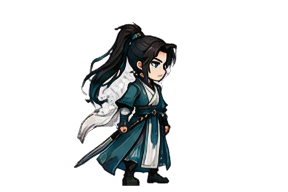
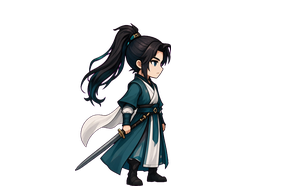
调试：god() 真无敌开关、atk(倍率)；修复死亡判定（以 HP 为准，过期死亡标记自动复活）；首领追赶系数（低攻击力对首领伤害最多×5）；第5关操作提示延后并移到下方；落雷1秒醒目预警；美术 fix3 重绘 jump_05/whirlwind_01/whirlwind_08 重建图集

Changed region(s): [[0.25, 0.0938, 0.625, 0.9688]]

diff --git a/assets/hero_atlas.js b/assets/hero_atlas.js
@@ -1,1 +1,1 @@
-window.HERO_ATLAS={"image":"assets/hero_atlas.png","source":"ref/hero_frames_v2.png + ref/hero_sheet.png","frames":{"idle_0":{"x":947,"y":0,"w":107,"h":164,"ax":55,"ay":163,"s":0.625},"idle_1":{"x":1056,"y":0,"w":107,"h":164,"ax":56,"ay":163,"s":0.625},"idle_2":{"x":1165,"y":0,"w":106,"h":164,"ax":56,"ay":163,"s":0.625},"idle_3":{"x":1735,"y":0,"w":106,"h":163,"ax":58,"ay":162,"s":0.625},"idle_4":{"x":1273,"y":0,"w":108,"h":164,"ax":56,"ay":163,"s":0.625},"idle_5":{"x":1843,"y":0,"w":106,"h":163,"ax":55,"ay":162,"s":0.625},"walk_0":{"x":718,"y":341,"w":108,"h":159,"ax":51,"ay":158,"s":0.625},"walk_1":{"x":828,"y":341,"w":107,"h":159,"ax":56,"ay":158,"s":0.625},"walk_2":{"x":937,"y":341,"w":98,"h":159,"ax":44,"ay":158,"s":0.625},"walk_3":{"x":1037,"y":341,"w":111,"h":159,"ax":59,"ay":158,"s":0.625},"walk_4":{"x":167,"y":504,"w":114,"h":158,"ax":53,"ay":157,"s":0.625},"walk_5":{"x":871,"y":176,"w":108,"h":161,"ax":70,"ay":160,"s":0.625},"walk_6":{"x":1150,"y":341,"w":115,"h":159,"ax":26,"ay":157,"s":0.625},"walk_7":{"x":1267,"y":341,"w":111,"h":159,"ax":74,"ay":158,"s":0.625},"attack1_0":{"x":981,"y":176,"w":116,"h":161,"ax":56,"ay":160,"s":0.625},"attack1_1":{"x":0,"y":176,"w":114,"h":163,"ax":66,"ay":162,"s":0.625},"attack1_2":{"x":1099,"y":176,"w":144,"h":161,"ax":66,"ay":160,"s":0.625},"attack1_3":{"x":1380,"y":341,"w":137,"h":159,"ax":64,"ay":158,"s":0.625},"attack1_4":{"x":1245,"y":176,"w":150,"h":161,"ax":68,"ay":160,"s":0.625},"attack1_5":{"x":1397,"y":176,"w":133,"h":161,"ax":73,"ay":160,"s":0.625},"attack2_0":{"x":1383,"y":0,"w":132,"h":164,"ax":80,"ay":163,"s":0.625},"attack2_1":{"x":278,"y":341,"w":140,"h":160,"ax":34,"ay":159,"s":0.625},"attack2_2":{"x":1519,"y":341,"w":134,"h":159,"ax":77,"ay":158,"s":0.625},"attack2_3":{"x":240,"y":0,"w":141,"h":173,"ax":56,"ay":172,"s":0.625},"attack2_4":{"x":283,"y":504,"w":143,"h":158,"ax":63,"ay":157,"s":0.625},"attack2_5":{"x":428,"y":504,"w":154,"h":158,"ax":61,"ay":157,"s":0.625},"attack3_0":{"x":423,"y":176,"w":141,"h":162,"ax":78,"ay":161,"s":0.625},"attack3_1":{"x":1386,"y":504,"w":151,"h":148,"ax":50,"ay":147,"s":0.625},"attack3_2":{"x":1655,"y":341,"w":138,"h":159,"ax":87,"ay":158,"s":0.625},"attack3_3":{"x":566,"y":176,"w":140,"h":162,"ax":68,"ay":161,"s":0.625},"attack3_4":{"x":1230,"y":504,"w":154,"h":150,"ax":49,"ay":149,"s":0.625},"attack3_5":{"x":708,"y":176,"w":161,"h":162,"ax":97,"ay":161,"s":0.625},"attack4_0":{"x":1532,"y":176,"w":114,"h":161,"ax":66,"ay":160,"s":0.625},"attack4_1":{"x":1648,"y":176,"w":148,"h":161,"ax":53,"ay":160,"s":0.625},"attack4_2":{"x":1798,"y":176,"w":142,"h":161,"ax":52,"ay":160,"s":0.625},"attack4_3":{"x":0,"y":341,"w":124,"h":161,"ax":65,"ay":160,"s":0.625},"attack4_4":{"x":516,"y":0,"w":136,"h":165,"ax":60,"ay":164,"s":0.625},"attack4_5":{"x":1795,"y":341,"w":148,"h":159,"ax":67,"ay":158,"s":0.625},"hit_0":{"x":584,"y":504,"w":141,"h":158,"ax":76,"ay":157,"s":0.625},"hit_1":{"x":883,"y":504,"w":143,"h":156,"ax":60,"ay":155,"s":0.625},"hit_2":{"x":1695,"y":504,"w":158,"h":139,"ax":74,"ay":138,"s":0.625},"portrait":{"x":397,"y":665,"w":128,"h":128,"ax":64,"ay":64,"s":0.78},"turn_0":{"x":827,"y":665,"w":99,"h":95,"ax":44,"ay":93},"turn_1":{"x":730,"y":665,"w":95,"h":97,"ax":48,"ay":95},"turn_2":{"x":928,"y":665,"w":73,"h":95,"ax":34,"ay":93},"hslash_0":{"x":1631,"y":665,"w":64,"h":78,"ax":34,"ay":76},"hslash_1":{"x":1849,"y":665,"w":55,"h":76,"ax":29,"ay":74},"hslash_2":{"x":1989,"y":665,"w":54,"h":75,"ax":26,"ay":73},"upslash_0":{"x":1697,"y":665,"w":64,"h":77,"ax":37,"ay":75},"upslash_1":{"x":1333,"y":665,"w":55,"h":87,"ax":25,"ay":85},"downslash_0":{"x":1763,"y":665,"w":84,"h":77,"ax":42,"ay":75},"wavecast_0":{"x":1906,"y":665,"w":81,"h":76,"ax":45,"ay":74},"dodge_0":{"x":0,"y":799,"w":72,"h":66,"ax":42,"ay":64},"dodge_1":{"x":74,"y":799,"w":82,"h":66,"ax":53,"ay":64},"block_0":{"x":1548,"y":665,"w":81,"h":79,"ax":26,"ay":77},"block_1":{"x":1484,"y":665,"w":62,"h":81,"ax":28,"ay":79},"charge_0":{"x":1390,"y":665,"w":92,"h":86,"ax":47,"ay":84},"ult_0":{"x":1003,"y":665,"w":92,"h":92,"ax":52,"ay":90},"down_0":{"x":1244,"y":665,"w":87,"h":89,"ax":56,"ay":87},"down_1":{"x":158,"y":799,"w":129,"h":53,"ax":63,"ay":51},"fx_sword":{"x":692,"y":665,"w":36,"h":115,"ax":18,"ay":115},"fx_wave":{"x":1097,"y":665,"w":145,"h":90,"ax":72,"ay":45},"jump_0":{"x":1855,"y":504,"w":139,"h":137,"ax":91,"ay":136,"s":0.625},"jump_1":{"x":383,"y":0,"w":131,"h":171,"ax":70,"ay":170,"s":0.625},"jump_2":{"x":0,"y":0,"w":127,"h":174,"ax":76,"ay":173,"s":0.625},"jump_3":{"x":527,"y":665,"w":163,"h":128,"ax":113,"ay":127,"s":0.625},"jump_4":{"x":654,"y":0,"w":150,"h":165,"ax":69,"ay":164,"s":0.625},"jump_5":{"x":0,"y":665,"w":165,"h":132,"ax":122,"ay":131,"s":0.625},"thrust_0":{"x":1517,"y":0,"w":111,"h":164,"ax":50,"ay":163,"s":0.625},"thrust_1":{"x":727,"y":504,"w":154,"h":157,"ax":113,"ay":156,"s":0.625},"thrust_2":{"x":1028,"y":504,"w":200,"h":151,"ax":82,"ay":150,"s":0.625},"thrust_3":{"x":167,"y":665,"w":228,"h":130,"ax":91,"ay":129,"s":0.625},"thrust_4":{"x":1539,"y":504,"w":154,"h":148,"ax":114,"ay":147,"s":0.625},"thrust_5":{"x":129,"y":0,"w":109,"h":174,"ax":58,"ay":173,"s":0.625},"spin_0":{"x":1630,"y":0,"w":103,"h":164,"ax":54,"ay":163,"s":0.625},"spin_1":{"x":116,"y":176,"w":160,"h":163,"ax":72,"ay":162,"s":0.625},"spin_2":{"x":806,"y":0,"w":139,"h":165,"ax":93,"ay":164,"s":0.625},"spin_3":{"x":278,"y":176,"w":143,"h":163,"ax":49,"ay":162,"s":0.625},"spin_4":{"x":126,"y":341,"w":150,"h":161,"ax":98,"ay":160,"s":0.625},"spin_5":{"x":0,"y":504,"w":165,"h":159,"ax":67,"ay":158,"s":0.625},"spin_6":{"x":420,"y":341,"w":177,"h":160,"ax":72,"ay":159,"s":0.625},"spin_7":{"x":599,"y":341,"w":117,"h":160,"ax":66,"ay":159,"s":0.625}},"anims":{"turn":["turn_0","turn_1","turn_2"],"hslash":["hslash_0","hslash_1","hslash_2"],"upslash":["upslash_0","upslash_1"],"downslash":["downslash_0"],"wavecast":["wavecast_0"],"dodge":["dodge_0","dodge_1"],"block":["block_0","block_1"],"charge":["charge_0"],"ult":["ult_0"],"down":["down_0","down_1"],"jump":["jump_0","jump_1","jump_2","jump_3","jump_4","jump_5"],"thrust":["thrust_0","thrust_1","thrust_2","thrust_3","thrust_4","thrust_5"],"spin":["spin_0","spin_1","spin_2","spin_3","spin_4","spin_5","spin_6","spin_7"],"idle":["idle_0","idle_1","idle_2","idle_3","idle_4","idle_5"],"walk":["walk_0","walk_1","walk_2","walk_3","walk_4","walk_5","walk_6","walk_7"],"run":["walk_0","walk_1","walk_2","walk_3","walk_4","walk_5","walk_6","walk_7"],"atk1":["attack1_0","attack1_1","attack1_2","attack1_3","attack1_4","attack1_5"],"atk2":["attack2_0","attack2_1","attack2_2","attack2_3","attack2_4","attack2_5"],"atk3":["attack3_0","attack3_1","attack3_2","attack3_3","attack3_4","attack3_5"],"atk4":["attack4_0","attack4_1","attack4_2","attack4_3","attack4_4","attack4_5"],"hurt":["hit_0","hit_1","hit_2"]}};
+window.HERO_ATLAS={"image":"assets/hero_atlas.png","source":"ref/hero_frames_v2.png + ref/hero_sheet.png","frames":{"idle_0":{"x":929,"y":0,"w":107,"h":164,"ax":55,"ay":163,"s":0.625},"idle_1":{"x":1038,"y":0,"w":107,"h":164,"ax":56,"ay":163,"s":0.625},"idle_2":{"x":1147,"y":0,"w":106,"h":164,"ax":56,"ay":163,"s":0.625},"idle_3":{"x":1612,"y":0,"w":106,"h":163,"ax":58,"ay":162,"s":0.625},"idle_4":{"x":1255,"y":0,"w":108,"h":164,"ax":56,"ay":163,"s":0.625},"idle_5":{"x":1720,"y":0,"w":106,"h":163,"ax":55,"ay":162,"s":0.625},"walk_0":{"x":473,"y":347,"w":108,"h":159,"ax":51,"ay":158,"s":0.625},"walk_1":{"x":583,"y":347,"w":107,"h":159,"ax":56,"ay":158,"s":0.625},"walk_2":{"x":692,"y":347,"w":98,"h":159,"ax":44,"ay":158,"s":0.625},"walk_3":{"x":792,"y":347,"w":111,"h":159,"ax":59,"ay":158,"s":0.625},"walk_4":{"x":0,"y":510,"w":114,"h":158,"ax":53,"ay":157,"s":0.625},"walk_5":{"x":755,"y":182,"w":108,"h":161,"ax":70,"ay":160,"s":0.625},"walk_6":{"x":905,"y":347,"w":115,"h":159,"ax":26,"ay":157,"s":0.625},"walk_7":{"x":1022,"y":347,"w":111,"h":159,"ax":74,"ay":158,"s":0.625},"attack1_0":{"x":865,"y":182,"w":116,"h":161,"ax":56,"ay":160,"s":0.625},"attack1_1":{"x":1828,"y":0,"w":114,"h":163,"ax":66,"ay":162,"s":0.625},"attack1_2":{"x":983,"y":182,"w":144,"h":161,"ax":66,"ay":160,"s":0.625},"attack1_3":{"x":1135,"y":347,"w":137,"h":159,"ax":64,"ay":158,"s":0.625},"attack1_4":{"x":1129,"y":182,"w":150,"h":161,"ax":68,"ay":160,"s":0.625},"attack1_5":{"x":1281,"y":182,"w":133,"h":161,"ax":73,"ay":160,"s":0.625},"attack2_0":{"x":1365,"y":0,"w":132,"h":164,"ax":80,"ay":163,"s":0.625},"attack2_1":{"x":152,"y":347,"w":140,"h":160,"ax":34,"ay":159,"s":0.625},"attack2_2":{"x":1274,"y":347,"w":134,"h":159,"ax":77,"ay":158,"s":0.625},"attack2_3":{"x":374,"y":0,"w":141,"h":173,"ax":56,"ay":172,"s":0.625},"attack2_4":{"x":116,"y":510,"w":143,"h":158,"ax":63,"ay":157,"s":0.625},"attack2_5":{"x":261,"y":510,"w":154,"h":158,"ax":61,"ay":157,"s":0.625},"attack3_0":{"x":307,"y":182,"w":141,"h":162,"ax":78,"ay":161,"s":0.625},"attack3_1":{"x":1219,"y":510,"w":151,"h":148,"ax":50,"ay":147,"s":0.625},"attack3_2":{"x":1410,"y":347,"w":138,"h":159,"ax":87,"ay":158,"s":0.625},"attack3_3":{"x":450,"y":182,"w":140,"h":162,"ax":68,"ay":161,"s":0.625},"attack3_4":{"x":1063,"y":510,"w":154,"h":150,"ax":49,"ay":149,"s":0.625},"attack3_5":{"x":592,"y":182,"w":161,"h":162,"ax":97,"ay":161,"s":0.625},"attack4_0":{"x":1416,"y":182,"w":114,"h":161,"ax":66,"ay":160,"s":0.625},"attack4_1":{"x":1532,"y":182,"w":148,"h":161,"ax":53,"ay":160,"s":0.625},"attack4_2":{"x":1682,"y":182,"w":142,"h":161,"ax":52,"ay":160,"s":0.625},"attack4_3":{"x":1826,"y":182,"w":124,"h":161,"ax":65,"ay":160,"s":0.625},"attack4_4":{"x":650,"y":0,"w":136,"h":165,"ax":60,"ay":164,"s":0.625},"attack4_5":{"x":1550,"y":347,"w":148,"h":159,"ax":67,"ay":158,"s":0.625},"hit_0":{"x":417,"y":510,"w":141,"h":158,"ax":76,"ay":157,"s":0.625},"hit_1":{"x":716,"y":510,"w":143,"h":156,"ax":60,"ay":155,"s":0.625},"hit_2":{"x":1528,"y":510,"w":158,"h":139,"ax":74,"ay":138,"s":0.625},"portrait":{"x":230,"y":670,"w":128,"h":128,"ax":64,"ay":64,"s":0.78},"turn_0":{"x":660,"y":670,"w":99,"h":95,"ax":44,"ay":93},"turn_1":{"x":563,"y":670,"w":95,"h":97,"ax":48,"ay":95},"turn_2":{"x":761,"y":670,"w":73,"h":95,"ax":34,"ay":93},"hslash_0":{"x":1464,"y":670,"w":64,"h":78,"ax":34,"ay":76},"hslash_1":{"x":1682,"y":670,"w":55,"h":76,"ax":29,"ay":74},"hslash_2":{"x":1822,"y":670,"w":54,"h":75,"ax":26,"ay":73},"upslash_0":{"x":1530,"y":670,"w":64,"h":77,"ax":37,"ay":75},"upslash_1":{"x":1166,"y":670,"w":55,"h":87,"ax":25,"ay":85},"downslash_0":{"x":1596,"y":670,"w":84,"h":77,"ax":42,"ay":75},"wavecast_0":{"x":1739,"y":670,"w":81,"h":76,"ax":45,"ay":74},"dodge_0":{"x":1878,"y":670,"w":72,"h":66,"ax":42,"ay":64},"dodge_1":{"x":1952,"y":670,"w":82,"h":66,"ax":53,"ay":64},"block_0":{"x":1381,"y":670,"w":81,"h":79,"ax":26,"ay":77},"block_1":{"x":1317,"y":670,"w":62,"h":81,"ax":28,"ay":79},"charge_0":{"x":1223,"y":670,"w":92,"h":86,"ax":47,"ay":84},"ult_0":{"x":836,"y":670,"w":92,"h":92,"ax":52,"ay":90},"down_0":{"x":1077,"y":670,"w":87,"h":89,"ax":56,"ay":87},"down_1":{"x":0,"y":802,"w":129,"h":53,"ax":63,"ay":51},"fx_sword":{"x":525,"y":670,"w":36,"h":115,"ax":18,"ay":115},"fx_wave":{"x":930,"y":670,"w":145,"h":90,"ax":72,"ay":45},"jump_0":{"x":1688,"y":510,"w":139,"h":137,"ax":91,"ay":136,"s":0.625},"jump_1":{"x":517,"y":0,"w":131,"h":171,"ax":70,"ay":170,"s":0.625},"jump_2":{"x":134,"y":0,"w":127,"h":174,"ax":76,"ay":173,"s":0.625},"jump_3":{"x":360,"y":670,"w":163,"h":128,"ax":113,"ay":127,"s":0.625},"jump_4":{"x":0,"y":0,"w":132,"h":180,"ax":94,"ay":179,"s":0.625},"jump_5":{"x":1829,"y":510,"w":165,"h":132,"ax":122,"ay":131,"s":0.625},"thrust_0":{"x":1499,"y":0,"w":111,"h":164,"ax":50,"ay":163,"s":0.625},"thrust_1":{"x":560,"y":510,"w":154,"h":157,"ax":113,"ay":156,"s":0.625},"thrust_2":{"x":861,"y":510,"w":200,"h":151,"ax":82,"ay":150,"s":0.625},"thrust_3":{"x":0,"y":670,"w":228,"h":130,"ax":91,"ay":129,"s":0.625},"thrust_4":{"x":1372,"y":510,"w":154,"h":148,"ax":114,"ay":147,"s":0.625},"thrust_5":{"x":263,"y":0,"w":109,"h":174,"ax":58,"ay":173,"s":0.625},"spin_0":{"x":1944,"y":0,"w":96,"h":163,"ax":53,"ay":162,"s":0.625},"spin_1":{"x":0,"y":182,"w":160,"h":163,"ax":72,"ay":162,"s":0.625},"spin_2":{"x":788,"y":0,"w":139,"h":165,"ax":93,"ay":164,"s":0.625},"spin_3":{"x":162,"y":182,"w":143,"h":163,"ax":49,"ay":162,"s":0.625},"spin_4":{"x":0,"y":347,"w":150,"h":161,"ax":98,"ay":160,"s":0.625},"spin_5":{"x":1700,"y":347,"w":165,"h":159,"ax":67,"ay":158,"s":0.625},"spin_6":{"x":294,"y":347,"w":177,"h":160,"ax":72,"ay":159,"s":0.625},"spin_7":{"x":1867,"y":347,"w":89,"h":159,"ax":58,"ay":158,"s":0.625}},"anims":{"turn":["turn_0","turn_1","turn_2"],"hslash":["hslash_0","hslash_1","hslash_2"],"upslash":["upslash_0","upslash_1"],"downslash":["downslash_0"],"wavecast":["wavecast_0"],"dodge":["dodge_0","dodge_1"],"block":["block_0","block_1"],"charge":["charge_0"],"ult":["ult_0"],"down":["down_0","down_1"],"jump":["jump_0","jump_1","jump_2","jump_3","jump_4","jump_5"],"thrust":["thrust_0","thrust_1","thrust_2","thrust_3","thrust_4","thrust_5"],"spin":["spin_0","spin_1","spin_2","spin_3","spin_4","spin_5","spin_6","spin_7"],"idle":["idle_0","idle_1","idle_2","idle_3","idle_4","idle_5"],"walk":["walk_0","walk_1","walk_2","walk_3","walk_4","walk_5","walk_6","walk_7"],"run":["walk_0","walk_1","walk_2","walk_3","walk_4","walk_5","walk_6","walk_7"],"atk1":["attack1_0","attack1_1","attack1_2","attack1_3","attack1_4","attack1_5"],"atk2":["attack2_0","attack2_1","attack2_2","attack2_3","attack2_4","attack2_5"],"atk3":["attack3_0","attack3_1","attack3_2","attack3_3","attack3_4","attack3_5"],"atk4":["attack4_0","attack4_1","attack4_2","attack4_3","attack4_4","attack4_5"],"hurt":["hit_0","hit_1","hit_2"]}};

diff --git a/game.js b/game.js
@@ -151,6 +151,9 @@ function attackers(){let n=0;for(const o of G.enemies)if(o.tok&&!o.dead)n++;retu
 function tryTok(e){if(e.tok)return true;if(e.tokCd>0)return false;if(attackers()<maxAttackers()){e.tok=1;e.tokT=0;return true}return false}
 function dropTok(e,cd){if(e.tok){e.tok=0;e.tokCd=cd==null?rnd(.5,1.1):cd}}
 function resistOf(e,elem){const r=(e.def.resist)||(G.S.resist)||{};return elem&&r[elem]!=null?r[elem]:1}
+// 首领追赶系数：攻击力低于该关预期水平时（如跳关/新存档），对首领伤害按差距放大（最多 ×5），正常成长的英雄不受影响
+const BOSS_EXP_ATK=[10,26,42,62,80];
+function bossCatchUp(){const a=atk(),ea=BOSS_EXP_ATK[G.idx]||10;return a>=ea?1:Math.min(5,Math.pow(ea/a,.85))}
 function damage(e,d,kb,fromX,elem,opts={}){if(e.dead||e.inv>0||e.hidden)return 0;
  let m=resistOf(e,elem);
  const front=Math.sign(fromX-e.x)===Math.sign(e.face)&&!elem;
@@ -159,6 +162,7 @@ function damage(e,d,kb,fromX,elem,opts={}){if(e.dead||e.inv>0||e.hidden)return 0
   else if(e.def.block&&Math.random()<e.def.block){m*=.2;numText(e,'格挡','#ccc');sfx('block')}}
  if(e.def.ai==='golem')m*=e.cool>0?1.6:.4;
  if(opts.ult&&(e.def.shape==='bat'||e.def.shape==='vamp'))m*=1.5;
+ if(e.boss)m*=bossCatchUp();m*=DBG_ATK;
  const dd=d*m;e.hp-=dd;e.hurtT=e.boss?.08:.25;e.kx=(e.x<fromX?-1:1)*kb*(e.boss?.15:1);
  particles(e.x,e.y,40*e.r+e.z,elem==='fire'?'#ff8a30':elem==='ice'?'#bff0ff':elem==='thunder'?'#d0b0ff':'#ffe080',8);numPop(e.x,e.y,70*e.r+e.z,dd,m>1.2?'#ffd34a':m<.5?'#999':'#fff');
  G.p.energy=Math.min(100,G.p.energy+3);sfx('hit');
@@ -174,7 +178,8 @@ function kill(e){e.dead=1;e.deadT=0;sfx('death');const p=G.p;p.exp+=e.exp;G.expG
   p.exp+=d.exp;G.expGain=(G.expGain||0)+d.exp;msg(d.msg,'#ffb040')}
  if(e.boss&&!e.mini){G.clearT=2.5;G.ep=[];G.hz=G.hz.filter(h=>h.stage);G.enemies.forEach(o=>{if(!o.dead&&o!==e){o.hp=0;kill(o)}})}
  if(e.boss&&e.mini)G.mini=null}
-function hurtPlayer(d,src){const p=G.p;if(p.inv>0||p.dead||G.clearT>0)return 0;d=Math.max(1,Math.round(d-def()));p.hp-=d;p.hurtT=.3;p.inv=.7;G.hurtFlash=Math.min(.45,.22+d/p.maxhp*2);p.energy=Math.min(100,p.energy+8);G.shake=6;
+let DBG_GOD=false,DBG_ATK=1;// 调试：无敌 / 伤害倍率（整页有效，跨关卡保留）
+function hurtPlayer(d,src){const p=G.p;if(DBG_GOD||p.inv>0||p.dead||G.clearT>0)return 0;if(!(d>0))return 0;d=Math.max(1,Math.round(d-def()));p.hp-=d;p.hurtT=.3;p.inv=.7;G.hurtFlash=Math.min(.45,.22+d/p.maxhp*2);p.energy=Math.min(100,p.energy+8);G.shake=6;
  numPop(p.x,p.y,80,d,'#ff5555');sfx('hurt');if(src&&src.x!=null)p.x+=Math.sign(p.x-src.x||1)*20;
  if(p.hp<=0){p.hp=0;p.dead=1;p.deadT=0;sfx('over')}return d}
 // ---------- 玩家 ----------
@@ -192,7 +197,8 @@ function special(){const p=G.p;p.energy=0;p.specialT=1.6;p.inv=1.8;G.flash=.4;G.
  for(const e of tg)for(let k=0;k<(lv5?3:2);k++)G.swords.push({x:e.x+rnd(-20,20),y:e.y+1,t:-.25-(i++)*.06,e,dmg:(34+atk()*1.6)*(lv5?1.5:1),gold:lv5});
  for(let k=0;k<14;k++)G.swords.push({x:G.camX+rnd(30,W-30),y:rnd(LANE_TOP,LANE_BOT),t:-.2-k*.07,deco:1,gold:lv5})}
 function updatePlayer(dt){const p=G.p;
- if(p.dead){p.deadT+=dt;if(p.deadT>1.6&&MODE==='play'){MODE='over';OVER_T=0;sfx('fail')}return}
+ if(p.dead&&(p.hp>0||DBG_GOD)){p.dead=0;p.deadT=0;if(p.hp<=0)p.hp=p.maxhp}
+ if(p.dead){p.deadT+=dt;if(p.deadT>1.6&&MODE==='play'&&p.hp<=0){MODE='over';OVER_T=0;sfx('fail')}return}
  for(const k of['inv','hurtT','comboWin','dashCd','bufJ','hzT'])p[k]=Math.max(0,p[k]-dt);
  if(G.menu)return;
  const bnd=laneAt(p.x);let sp=200;if(segAt(p.x,'river')&&p.z<5)sp*=G.S.river.slow;
@@ -722,7 +728,13 @@ function drawHazard(h){const sx=h.x-G.camX;if(sx<-300||sx>W+300)return;const st=
   if(['meteor','icicle','arrows','skybolt'].includes(h.k)){const fall=(1-pr)*420;ell(sx,h.y,h.rx*.5*pr,h.ry*.5*pr,'rgba(0,0,0,.4)');
    if(h.k==='meteor')fx('fireball',sx+fall*.3,h.y-fall-20,.8,.9,1,.6);else if(h.k==='icicle')fx('ice_lance',sx,h.y-fall-20,.4,.9,1,Math.PI/2);else if(h.k==='arrows'){ctx.strokeStyle='#ddd';ctx.lineWidth=2;for(let i=0;i<4;i++){const ax=sx+(i-1.5)*14,ay=h.y-fall-i*10;ctx.beginPath();ctx.moveTo(ax,ay);ctx.lineTo(ax+4,ay-22);ctx.stroke()}}}
   if(h.k==='snowball'){const ox=h.ox-G.camX;const bx=ox+(sx-ox)*pr,by=h.oy+(h.y-h.oy)*pr-h.oz*(1-pr)-Math.sin(pr*Math.PI)*(160+60*h.sc);ell(sx,h.y,h.rx*.6*pr,h.ry*.6*pr,'rgba(10,20,50,.45)');if(h.giant)drawSprite(SNOWBOSS_ATLAS,'snowboss','snowball',bx,by,26*h.sc,G.t*3);else drawSnowball(bx,by,(h.ice?13:9)*h.sc,G.t*(h.ice?4:8),h.ice)}
-  if(h.k==='burst')txt('!',sx,h.y-140,40,'#ff3040','center');return}
+  if(h.k==='burst')txt('!',sx,h.y-140,40,'#ff3040','center');
+  if(h.k==='skybolt'){const left=h.warn-h.t;if(left<1.0){const k=1-left/1.0,pl=.5+.5*Math.sin(G.t*30);ctx.save();ctx.globalCompositeOperation='lighter';
+   ctx.fillStyle=`rgba(190,160,255,${.25+.35*k*pl})`;ctx.beginPath();ctx.ellipse(sx,h.y,h.rx*(1.15-.25*k),h.ry*(1.15-.25*k),0,0,7);ctx.fill();
+   ctx.strokeStyle=`rgba(235,220,255,${.6+.4*pl})`;ctx.lineWidth=3;ctx.beginPath();ctx.ellipse(sx,h.y,h.rx,h.ry,0,0,7);ctx.stroke();ctx.beginPath();ctx.moveTo(sx-h.rx*.6,h.y);ctx.lineTo(sx+h.rx*.6,h.y);ctx.moveTo(sx,h.y-h.ry*.7);ctx.lineTo(sx,h.y+h.ry*.7);ctx.stroke();
+   const g=ctx.createLinearGradient(0,0,0,h.y);g.addColorStop(0,'rgba(200,180,255,0)');g.addColorStop(1,`rgba(200,180,255,${.12+.3*k})`);ctx.fillStyle=g;ctx.fillRect(sx-6-8*k,0,12+16*k,h.y);ctx.restore();
+   txt('⚡',sx,h.y-34-6*pl,22+6*k,'#fff3a0','center','#3a1a6a')}}
+  return}
  if(st===2||(st===3&&h.sb&&h.k==='spike')){const k=h.k;ctx.save();
   if(k==='crack'||k==='puddle'){ctx.globalCompositeOperation='lighter';ctx.fillStyle=`rgba(255,${100+60*Math.random()|0},20,.55)`;ctx.beginPath();ctx.ellipse(sx,h.y,h.rx,h.ry,0,0,7);ctx.fill();fx('firewall',sx,h.y+4,h.rx/90,.6,1,0,'b')}
   else if(k==='geyser'){fx('firewall',sx,h.y+6,.8,.95,1,0,'b');fx('explosion',sx,h.y-60,.7,.6)}
@@ -819,7 +831,8 @@ function drawHUD(){const p=G.p;
  G.msgs.forEach((m,i)=>{ctx.globalAlpha=Math.min(1,m.life*2,m.a==null?1:m.a);txt(m.t,W/2,122+i*26,18,m.c,'center');ctx.globalAlpha=1});
  if(G.popup){const q=G.popup,py=206;ctx.globalAlpha=Math.min(1,q.t*2);rr(W/2-200,py,400,90,12);ctx.fillStyle='rgba(30,20,10,.85)';ctx.fill();ctx.strokeStyle='#ffd34a';ctx.lineWidth=3;ctx.stroke();
   txt(q.title,W/2,py+22,18,'#ffd34a','center');txt('习得：'+q.name,W/2,py+48,22,'#fff','center');txt(q.desc,W/2,py+73,13,'#ddd','center');ctx.globalAlpha=1}
- if(!document.body.classList.contains('touch')&&G.time<12&&!bs)txt('方向键/WASD移动  J攻击(长按蓄力)  K跳跃  L终结技  U施法  I切换  E女巫  M静音',W/2,90,13,'#c8bfe8','center')}
+ // 操作提示：等关卡名/波次提示消失后再出现，显示 10 秒，放在画面下方（HUD 上方），不与顶部标题挤在一起
+ if(!document.body.classList.contains('touch')&&!bs){if(G.hintT==null&&G.time>2.5&&!G.msgs.some(m=>m.t===G.S.name))G.hintT=G.time;if(G.hintT!=null&&G.time-G.hintT<10){const k=G.time-G.hintT,a=Math.min(1,k*3,(10-k)*1.5);ctx.globalAlpha=a;rr(W/2-330,416,660,24,12);ctx.fillStyle='rgba(10,6,24,.6)';ctx.fill();txt('方向键/WASD移动  J攻击(长按蓄力)  K跳跃  L终结技  U施法  I切换  E女巫  P帮助  M静音',W/2,428,13,'#e0d6ff','center');ctx.globalAlpha=1}}}
 function fmtT(t){t=Math.floor(t);return Math.floor(t/60)+':'+String(t%60).padStart(2,'0')}
 // ---------- 女巫菜单 ----------
 function witchMenuInput(){const m=G.menu;const cols=SCHOOLS.map(s=>SPELLS.filter(q=>q.s===s.id));
@@ -963,6 +976,6 @@ cv.addEventListener('click',e=>{const b=cv.getBoundingClientRect();tapAt((e.clie
 window.__tap=tapAt;window.__G=()=>G;window.__help=()=>{if(canHelp('p'))toggleHelp()};window.__helpOpen=()=>!!HELP;
 window.__dbg={mode:()=>MODE,start:i=>startSel(i),profile:()=>PROFILE,
  skip:n=>{if(!G||!G.B||!G.B.waves.length)return false;const L=G.B.waves.length;n=Math.max(0,Math.min(L-1,Math.floor(+n)||0));const w=G.B.waves[n];if(!w)return false;G.enemies=[];G.reinf=[];G.lockX=null;G.boss=null;G.mini=null;G.wave=n;G.p.x=w.x+W*.4-30;G.camX=Math.max(0,w.x-60);return n},
- god:()=>{G.p.maxhp=G.p.hp=99999},give:(e,m)=>{G.p.exp+=e;G.p.mp+=m},learnAll:()=>{G.p.spells=SPELLS.map(s=>s.id)},
+ god:(on=true)=>{DBG_GOD=!!on;if(G&&G.p){const p=G.p;if(on){p.dead=0;p.deadT=0;p.hp=p.maxhp}}return DBG_GOD},atk:(m=1)=>{DBG_ATK=Math.max(0,+m||1);return DBG_ATK},give:(e,m)=>{G.p.exp+=e;G.p.mp+=m},learnAll:()=>{G.p.spells=SPELLS.map(s=>s.id)},
  props:()=>props,killAll:()=>{const L=G.enemies.slice();const bs=L.filter(e=>e.boss&&!e.mini);L.filter(e=>!bs.includes(e)).concat(bs).forEach(e=>{if(!e.dead){e.hp=0;kill(e)}})},unlockAll:()=>{PROFILE.unlocked=5;writeSave()},setPlv:l=>{G.p.plv=l;G.p.prof=PROF[l-1]},energy:()=>{G.p.energy=100},
  boss:()=>G.boss,speed:n=>{SPEED=n},help:()=>HELP,overT:()=>OVER_T,resetSave:()=>{PROFILE=defProfile();writeSave()}};

diff --git a/test_playwright.js b/test_playwright.js
@@ -29,5 +29,5 @@ await ev(()=>{const B=__dbg.boss();B.hp=B.maxhp*.2});await pg.waitForTimeout(500
 await ev(()=>__dbg.killAll());await pg.waitForTimeout(3200);await pg.keyboard.press('Enter');await pg.waitForTimeout(2500);await shot('f_ending');
 console.log('mode',await ev(()=>__dbg.mode()),await ev(()=>JSON.stringify(__dbg.profile().ngplusUnlocked)));
 // game over
-await ev(()=>{__dbg.start(0);__G().p.hp=1});await pg.keyboard.down('d');await pg.waitForTimeout(400);await pg.keyboard.up('d');await ev(()=>{hurtPlayer(50,null)});await pg.waitForTimeout(2200);await shot('f_over');console.log('mode',await ev(()=>__dbg.mode()));
+await ev(()=>{__dbg.god(false);__dbg.start(0);__G().p.hp=1});await pg.keyboard.down('d');await pg.waitForTimeout(400);await pg.keyboard.up('d');await ev(()=>{hurtPlayer(50,null)});await pg.waitForTimeout(2200);await shot('f_over');console.log('mode',await ev(()=>__dbg.mode()));
 console.log('ERRS',errs.slice(0,10));console.log(errs.length?'DESKTOP_FAIL':'DESKTOP_PASS');await b.close();process.exit(errs.length?1:0)})();

diff --git a/README.md b/README.md
@@ -84,3 +84,18 @@ iOS Safari 可「添加到主屏幕」全屏游玩；首次触摸后启用音频
 - `screenshot_anim_check.png` — 主角新帧逐帧接触表（红线为脚底基线、蓝线为锚点，末行为头像与调色后的旧帧）
 - `anim_preview.gif` — 主角待机 / 行走 / 四段连斩 / 受击预览动图
 - `test_playwright.js` / `test_mobile.js` — 无头浏览器测试（开发用，需 `npm i playwright-core` 与本机 Chrome）
+
+## 调试命令（浏览器控制台）
+
+| 命令 | 作用 |
+|---|---|
+| `__dbg.god()` / `__dbg.god(false)` | 开/关真无敌：任何来源（敌人、投射物、地形陷阱、落雷）都不扣血、不会死亡；整页有效，切换关卡后仍保留 |
+| `__dbg.atk(10)` / `__dbg.atk(1)` | 玩家所有伤害 ×10 / 恢复正常；整页有效 |
+| `__dbg.start(i)` | 直接开始第 i+1 关（0–4） |
+| `__dbg.skip(n)` | 跳到第 n 波（自动夹在有效范围内，`skip(99)` = 首领波） |
+| `__dbg.killAll()` | 杀死场上全部敌人（首领最后结算） |
+| `__dbg.unlockAll()` / `__dbg.resetSave()` | 解锁全部关卡 / 重置存档 |
+| `__dbg.speed(n)` | 游戏速度 ×n（0 = 冻结） |
+
+- **首领追赶系数**：攻击力低于该关预期（10/26/42/62/80）时，对首领的伤害按差距放大（最多 ×5），跳关或新存档也能在合理时间内击败首领；正常成长的英雄不受影响。
+- **落雷预警**：第 5 关落雷落下前约 1 秒，地面出现闪烁的紫色准星圈、光柱和 ⚡ 标记。
